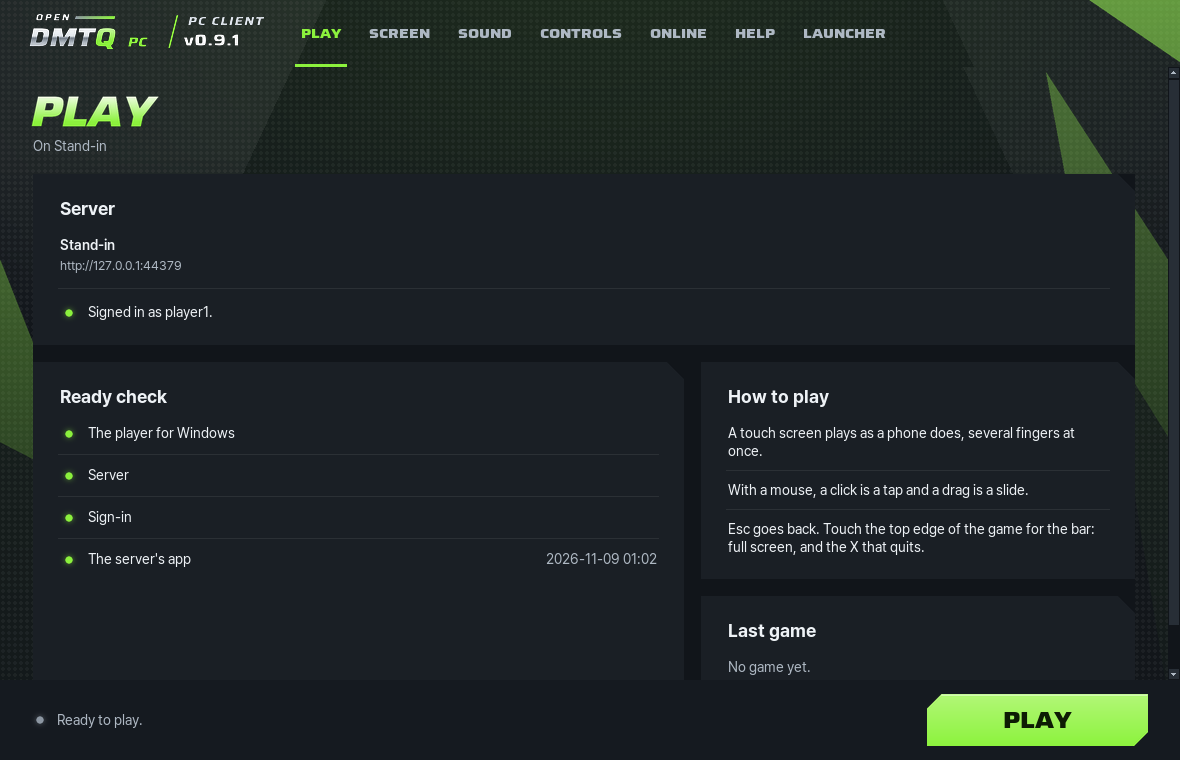
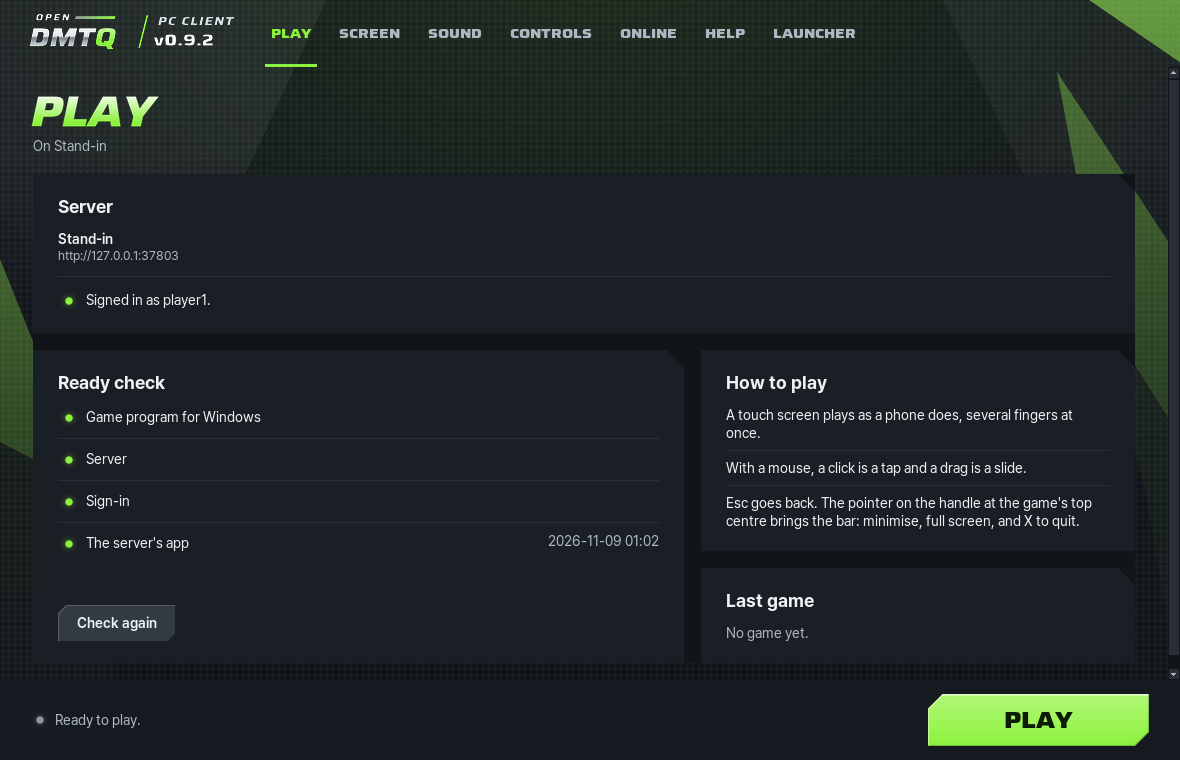
Release 0.9.2

diff --git a/CHANGELOG.md b/CHANGELOG.md
@@ -6,12 +6,16 @@ one that only fixes raises the patch number. Each release's section here is its 
 
 ## [Unreleased]
 
+## [0.9.2] - 2026-11-12
+
 ### Added
 
-- The player for Windows: a small handle at the top centre of the game shows where the bar is. Resting the pointer on
-  it, or on the top edge, brings the bar down once the game has had no click, touch or held note for 1.5 seconds, so a
-  song is never interrupted; clicks pass through the handle to the game. The bar also shows for 3 seconds when the
-  game's picture first appears and after each switch between a window and full screen.
+- The player for Windows: a small tab at the top centre of the game, in the shape of the game's own tabs with its green
+  line, shows where the bar is. Resting the pointer on it, or on the top edge, brings the bar down once the game has had
+  no click, touch or held note for 1.5 seconds, so a song is never interrupted; clicks pass through it to the game. The
+  bar also shows for 3 seconds when the game's picture first appears and after each switch between a window and full
+  screen.
+- The player for Windows: a minimise button on the bar, left of full screen; the taskbar brings the game back.
 - The launcher's command line: `--servers` lists the servers it knows, and `--skip-guide` skips the first-start guide.
 - For contributors: the player logs when the bar comes and goes and why, when the FPS counter shows or hides, and how
   long each planned key (`PLAYER_KEYS`) waited; `PLAYER_TRACE_INPUT=1` also logs each mouse press reaching the game and
@@ -19,6 +23,12 @@ one that only fixes raises the patch number. Each release's section here is its 
 
 ### Changed
 
+- The player for Windows: the bar over the game carries the OpenDMTQ wordmark as the launcher's header draws it, and
+  every button over the game is the launcher's own, its shape and depth: on the bar the X is the lime main button from
+  the start, so it is seen at once, and minimise and full screen are quiet secondary buttons; in the question before
+  quitting, Keep playing is the lime main button and Quit the game the secondary one, red under the pointer. The window
+  has no buttons of its own, only its title bar and frame, and its title bar is dark as the launcher's header; the game
+  is minimised, put in full screen and quit from its bar, and the taskbar's Close window still asks before quitting.
 - The player for Windows speaks the launcher's language: the game, the bar, the question before quitting, the broadcast
   notice and its own messages. "Same as Windows" keeps Windows' display language. The launcher passes it in the settings
   file as `language=en|ko`.
@@ -45,6 +55,10 @@ one that only fixes raises the patch number. Each release's section here is its 
 
 ### Fixed
 
+- The player for Windows: a song's start could freeze the picture for good while the sound went on, 8 of 142 starts on
+  one PC: the game's own video decoder missed a signal its player sent a moment too early, a race its slower first run
+  here made likely. A wait without a time limit now wakes by itself every 100 ms, as the system may, so the decoder
+  looks again: 0 of 80 starts froze.
 - The FPS counter read 0 for the whole game once the first loading had passed. It now shows the frames over the last
   second, hides before the game's first frame and while the game is held, and reads 0 only after a whole second without
   a frame.
@@ -66,6 +80,8 @@ one that only fixes raises the patch number. Each release's section here is its 
   guide's numbers of the steps to come are readable.
 - The launcher's words: shorter Controls lines, no lines about the page itself or advice, "player" only for the one who
   plays, pages by the menu's names, and plainer Korean.
+- The player for Windows: a timed wait in the game could end early when its timer had fired during an earlier wait that
+  ended for another reason; the player's tests now include a stress test of the game's waits.
 
 ## [0.9.1] - 2026-11-11
 
@@ -591,7 +607,8 @@ one that only fixes raises the patch number. Each release's section here is its 
 - Four ways to run it: the Windows bundle, one command on Linux or macOS, Docker Compose, and a Helm chart for
   Kubernetes.
 
-[Unreleased]: https://github.com/kanggu12/openDMTQ/compare/v0.9.1...HEAD
+[Unreleased]: https://github.com/kanggu12/openDMTQ/compare/v0.9.2...HEAD
+[0.9.2]: https://github.com/kanggu12/openDMTQ/compare/v0.9.1...v0.9.2
 [0.9.1]: https://github.com/kanggu12/openDMTQ/compare/v0.9.0...v0.9.1
 [0.9.0]: https://github.com/kanggu12/openDMTQ/compare/v0.8.2...v0.9.0
 [0.8.2]: https://github.com/kanggu12/openDMTQ/compare/v0.8.1...v0.8.2
